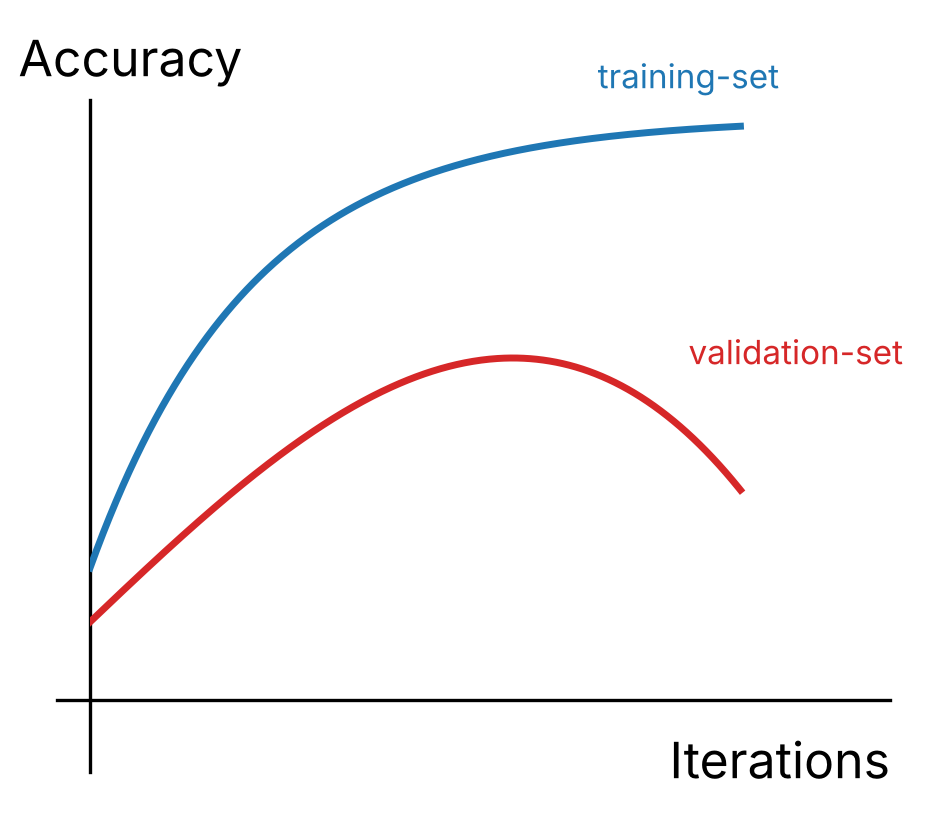
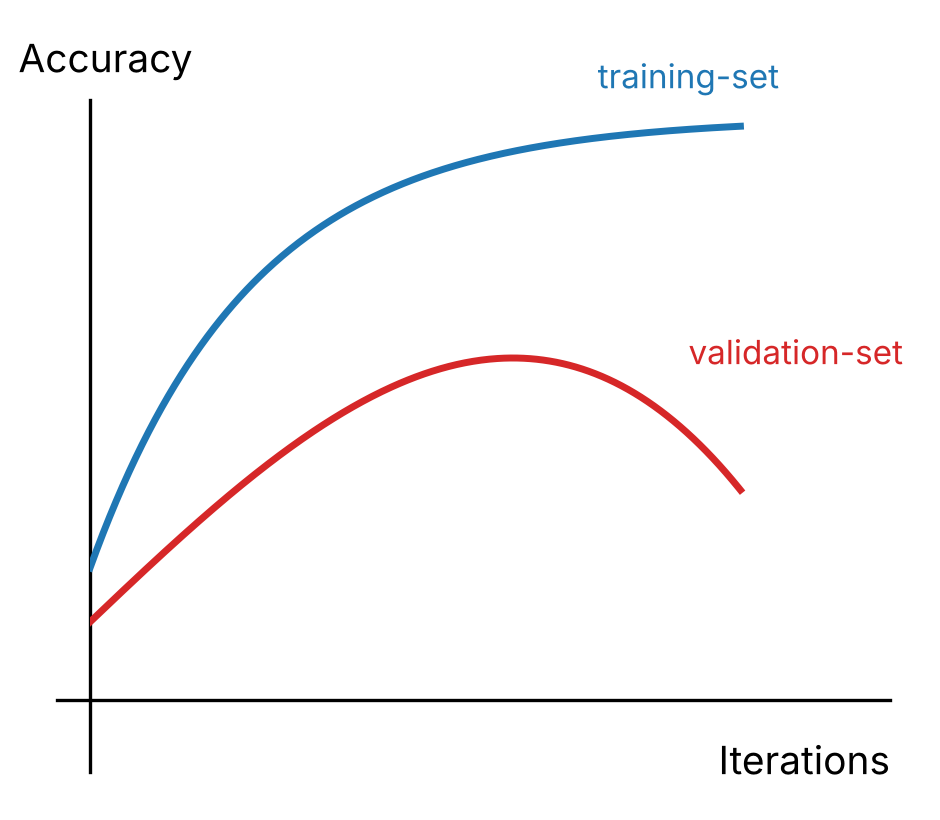
Use 12 pt text, 14 pt axis labels and 14 pt panel labels in Fig 3 and Fig 4
Replace the single base font in the fit-capacity and training-curve scripts
with a FONT_SIZES table: 12 pt for text and the curve names, 14 pt for the x
and y axis labels, and 14 pt for the panel labels.

Claude-Session: https://claude.ai/code/session_018jMZFmUUa89N8dZAPYvKA5

Changed region(s): [[0.0, 0.0305, 0.2777, 0.122], [0.7096, 0.8841, 0.9564, 0.9451]]

diff --git a/Models/Overfitting/training_curve_fig.py b/Models/Overfitting/training_curve_fig.py
@@ -5,7 +5,7 @@ and then falls. The curves are drawn from closed-form shapes, not from a fitted 
 no ticks because only the shape is meant to be read.
 """
 __author__ = 'yRocket'
-__version__ = "0.2.1+20261101"  # Semantic Versioning: Major.Minor.Patch+YYYYMMDD
+__version__ = "0.2.2+20261101"  # Semantic Versioning: Major.Minor.Patch+YYYYMMDD
 
 import argparse
 import pathlib
@@ -21,8 +21,8 @@ __all__ = ['concept_curves', 'draw_training_curve']
 AXES_SIZE: tuple = (4.0, 3.0)        # x and y length of the chart's axis lines, in inches
 MARGINS: dict = {'left': 0.45, 'right': 0.25, 'bottom': 0.60, 'top': 0.50}  # inches around the chart
 DPI: int = 200
-REFERENCE_AXES_WIDTH: float = 4.0    # the chart width BASE_FONT_SIZE was chosen for
-BASE_FONT_SIZE: float = 12.0
+REFERENCE_AXES_WIDTH: float = 4.0    # the chart width the font sizes below were chosen for
+FONT_SIZES: dict = {'text': 12.0, 'axis_label': 14.0}  # points; 'text' is the minimum
 X_AXIS_END: float = 1.23             # iterations where the x axis line ends; the curves end at 1
 COLORS: dict = matplotlib.colors.TABLEAU_COLORS
 TRAINING_COLOR: str = COLORS['tab:blue']
@@ -62,7 +62,8 @@ def concept_curves(n_points: int = 400) -> pd.DataFrame:
 def draw_training_curve(curve: pd.DataFrame, output_folder: pathlib.Path) -> pathlib.Path:
     """Write the concept figure. Returns the figure path."""
     output_folder.mkdir(parents=True, exist_ok=True)
-    font_size = BASE_FONT_SIZE * AXES_SIZE[0] / REFERENCE_AXES_WIDTH
+    scale = AXES_SIZE[0] / REFERENCE_AXES_WIDTH
+    text_size, label_size = FONT_SIZES['text'] * scale, FONT_SIZES['axis_label'] * scale
     fig_width = MARGINS['left'] + AXES_SIZE[0] + MARGINS['right']
     fig_height = MARGINS['bottom'] + AXES_SIZE[1] + MARGINS['top']
 
@@ -77,16 +78,16 @@ def draw_training_curve(curve: pd.DataFrame, output_folder: pathlib.Path) -> pat
     # Two crossing axis lines, as in a hand-drawn sketch: each runs a little past the other.
     axis.plot([0.0, 0.0], [-0.12, 1.0], color='black', linewidth=1.2, clip_on=False)
     axis.plot([-0.05, X_AXIS_END], [0.0, 0.0], color='black', linewidth=1.2, clip_on=False)
-    axis.text(-0.11, 1.07, 'Accuracy', fontsize=font_size * 1.5, ha='left', va='center')
-    axis.text(X_AXIS_END, -0.10, 'Iterations', fontsize=font_size * 1.5, ha='right', va='center')
+    axis.text(-0.11, 1.07, 'Accuracy', fontsize=label_size, ha='left', va='center')
+    axis.text(X_AXIS_END, -0.10, 'Iterations', fontsize=label_size, ha='right', va='center')
 
     t = curve.index.to_numpy()
     axis.plot(t, curve['training'], color=TRAINING_COLOR, linewidth=2.5)
     axis.plot(t, curve['validation'], color=VALIDATION_COLOR, linewidth=2.5)
     axis.text(0.92, curve['training'].iloc[-1] + 0.05, 'training-set', color=TRAINING_COLOR,
-              fontsize=font_size, ha='center', va='bottom')
+              fontsize=text_size, ha='center', va='bottom')
     axis.text(1.25, VALIDATION_PEAK + 0.01, 'validation-set', color=VALIDATION_COLOR,
-              fontsize=font_size, ha='right', va='center')
+              fontsize=text_size, ha='right', va='center')
 
     figure_path = output_folder / 'training-curve.png'
     fig.savefig(figure_path, dpi=DPI)

diff --git a/Models/Overfitting/fit_capacity_fig.py b/Models/Overfitting/fit_capacity_fig.py
@@ -5,7 +5,7 @@ spline that passes through every training point. The held-out RMSE of each fit i
 quote it.
 """
 __author__ = 'yRocket'
-__version__ = "0.1.0+20261101"  # Semantic Versioning: Major.Minor.Patch+YYYYMMDD
+__version__ = "0.1.1+20261101"  # Semantic Versioning: Major.Minor.Patch+YYYYMMDD
 
 import argparse
 import pathlib
@@ -24,8 +24,8 @@ PANEL_GAP: float = 0.35              # inches between two charts
 MARGINS: dict = {'left': 0.45, 'right': 0.15, 'bottom': 0.90, 'top': 0.15}  # inches around the charts
 PANEL_LABEL_HEIGHT: float = 0.20     # inches from the bottom edge to the panel labels
 DPI: int = 200
-REFERENCE_AXES_WIDTH: float = 4.0    # the chart width BASE_FONT_SIZE was chosen for
-BASE_FONT_SIZE: float = 12.0
+REFERENCE_AXES_WIDTH: float = 4.0    # the chart width the font sizes below were chosen for
+FONT_SIZES: dict = {'text': 12.0, 'axis_label': 14.0, 'panel_label': 14.0}  # points; 'text' is the minimum
 COLORS: list = list(matplotlib.colors.TABLEAU_COLORS.values())
 PANEL_LABELS: tuple = ('(a) Underfitted', '(b) Well-fitted', '(c) Overfitted')
 
@@ -56,8 +56,9 @@ def fit_curves(train: pd.DataFrame) -> list:
 def draw_fit_capacity(train: pd.DataFrame, test: pd.DataFrame, output_folder: pathlib.Path) -> pathlib.Path:
     """Write the three-panel figure and print the train and held-out RMSE. Returns the figure path."""
     output_folder.mkdir(parents=True, exist_ok=True)
-    font_size = BASE_FONT_SIZE * AXES_SIZE[0] / REFERENCE_AXES_WIDTH
-    plt.rcParams.update({'font.size': font_size})
+    scale = AXES_SIZE[0] / REFERENCE_AXES_WIDTH
+    plt.rcParams.update({'font.size': FONT_SIZES['text'] * scale,
+                         'axes.labelsize': FONT_SIZES['axis_label'] * scale})
     n_panels = len(PANEL_LABELS)
     fig_width = MARGINS['left'] + n_panels * AXES_SIZE[0] + (n_panels - 1) * PANEL_GAP + MARGINS['right']
     fig_height = MARGINS['bottom'] + AXES_SIZE[1] + MARGINS['top']
@@ -84,7 +85,7 @@ def draw_fit_capacity(train: pd.DataFrame, test: pd.DataFrame, output_folder: pa
     for axis, label in zip(axes, PANEL_LABELS):
         position = axis.get_position()
         fig.text(position.x0 + position.width / 2, PANEL_LABEL_HEIGHT / fig_height, label,
-                 ha='center', fontsize=font_size)
+                 ha='center', fontsize=FONT_SIZES['panel_label'] * scale)
 
     figure_path = output_folder / 'fit-capacity.png'
     fig.savefig(figure_path, dpi=DPI)
